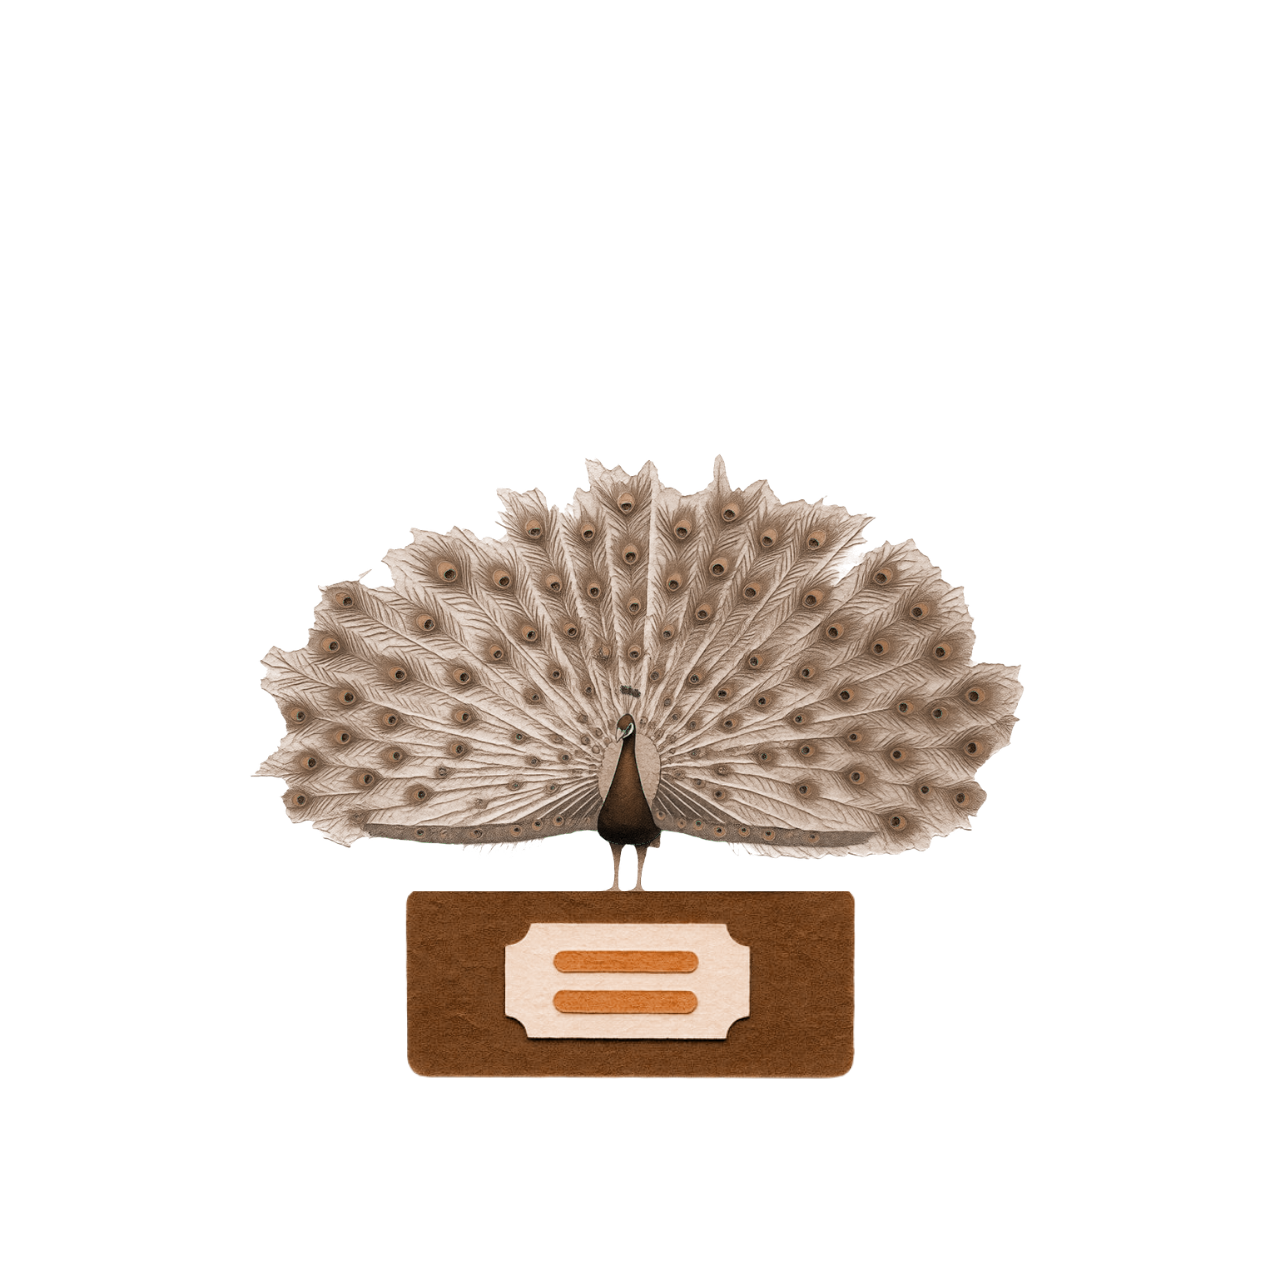
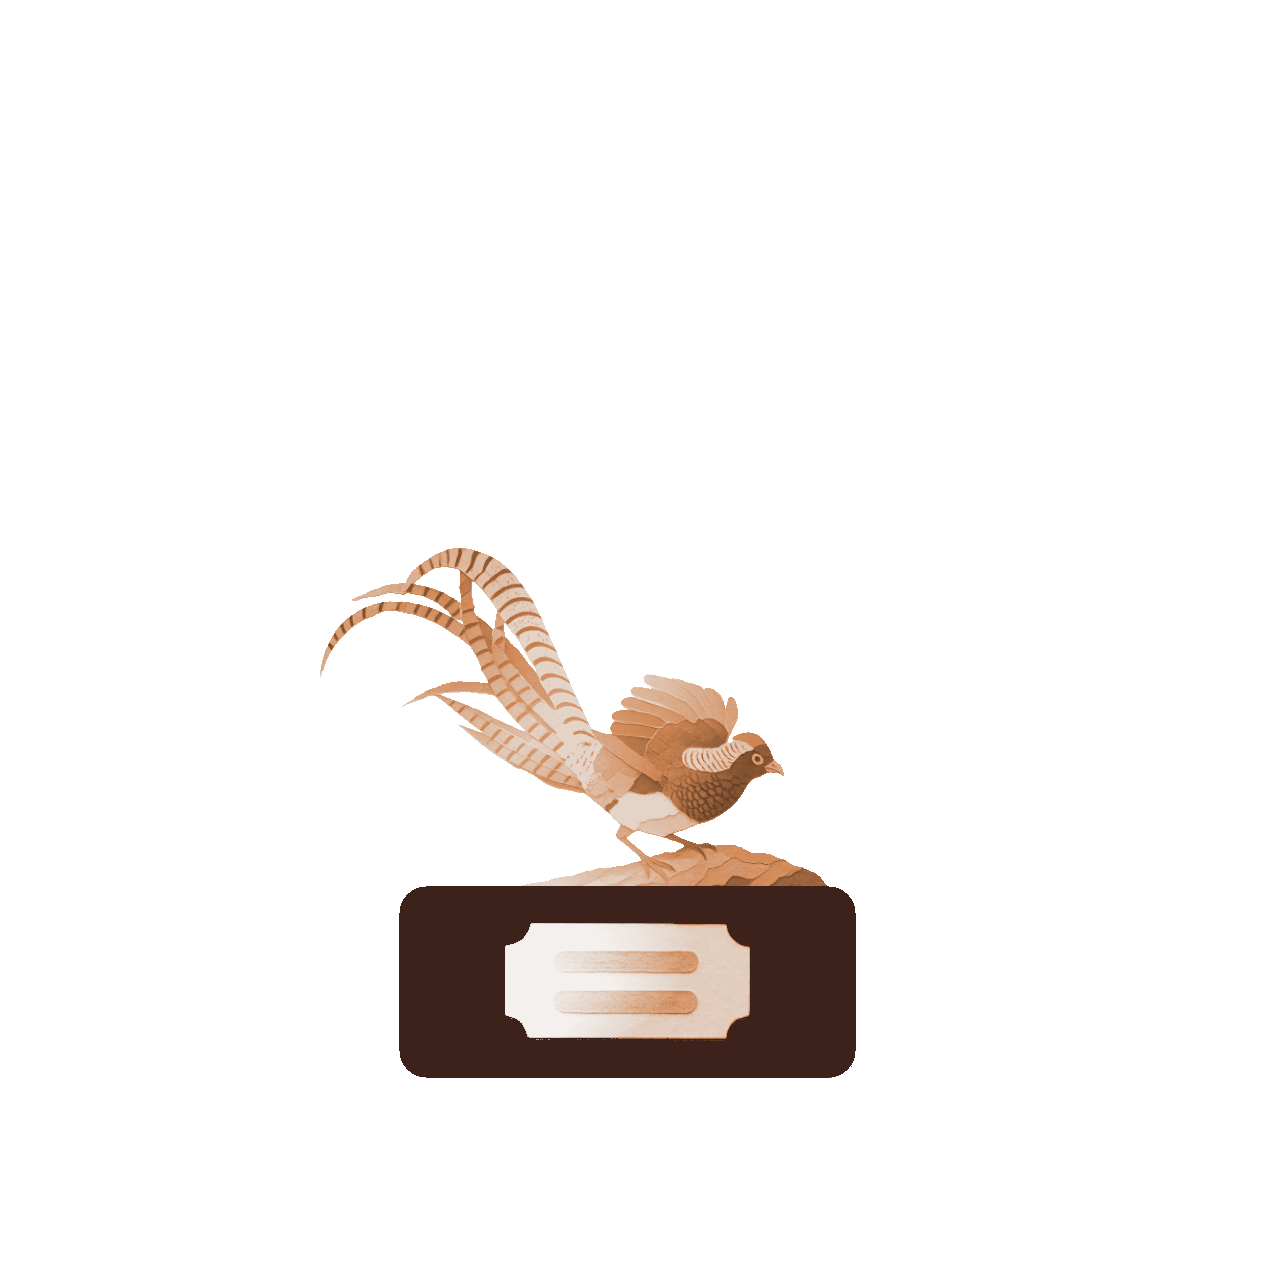
Refonte trophees batch 1 : nouveaux PNGs generes avec le nouveau pipeline (nouveau socle marron + plaque metallique + bird retinte).
- Galliformes (faisan) : 5 tiers
- Podicipedidae (grebe) : 5 tiers
- Anatidae (canard) : 5 tiers
- Scolopacidae (chevalier) : 5 tiers
- Pie-grieche badge : icon single (from or.png)

Compression oxipng -o 4 --strip safe. Cache v292.

Changed region(s): [[0.1851, 0.3703, 0.8331, 0.8639]]

diff --git a/service-worker.js b/service-worker.js
@@ -3,7 +3,7 @@
 //   puis rafraichit en background. Prochain reload = nouvelle version.
 // - Requetes cross-origin (Firestore, iNaturalist, xeno-canto, Wikipedia, etc.) : reseau seul.
 // - Bump CACHE_VERSION quand on veut invalider volontairement.
-const CACHE_VERSION = 'v291-2026-09-17-or-nouvelle-teinte';
+const CACHE_VERSION = 'v292-2026-09-17-refonte-trophees-batch1';
 const CACHE_NAME = 'lmb-' + CACHE_VERSION;
 
 self.addEventListener('install', (e) => {
